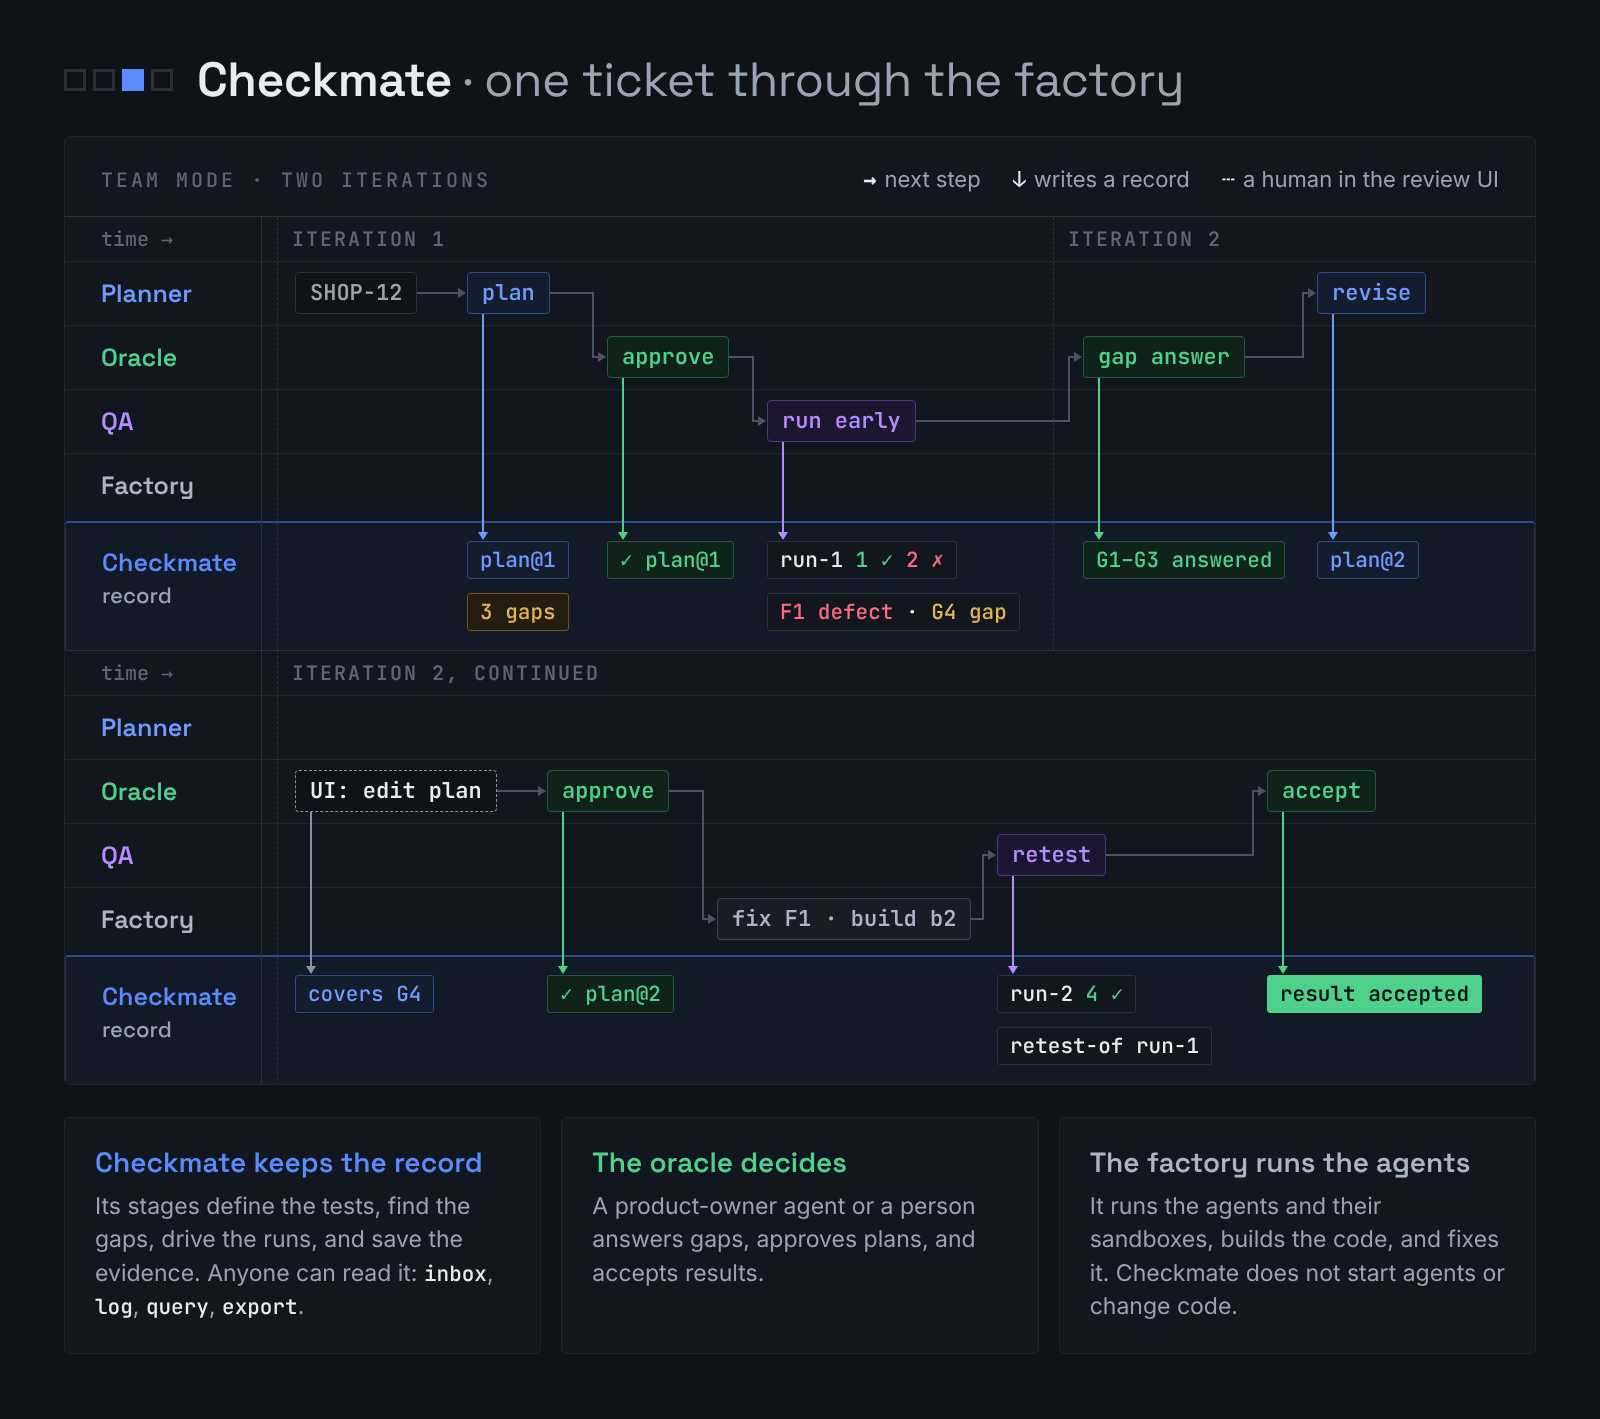
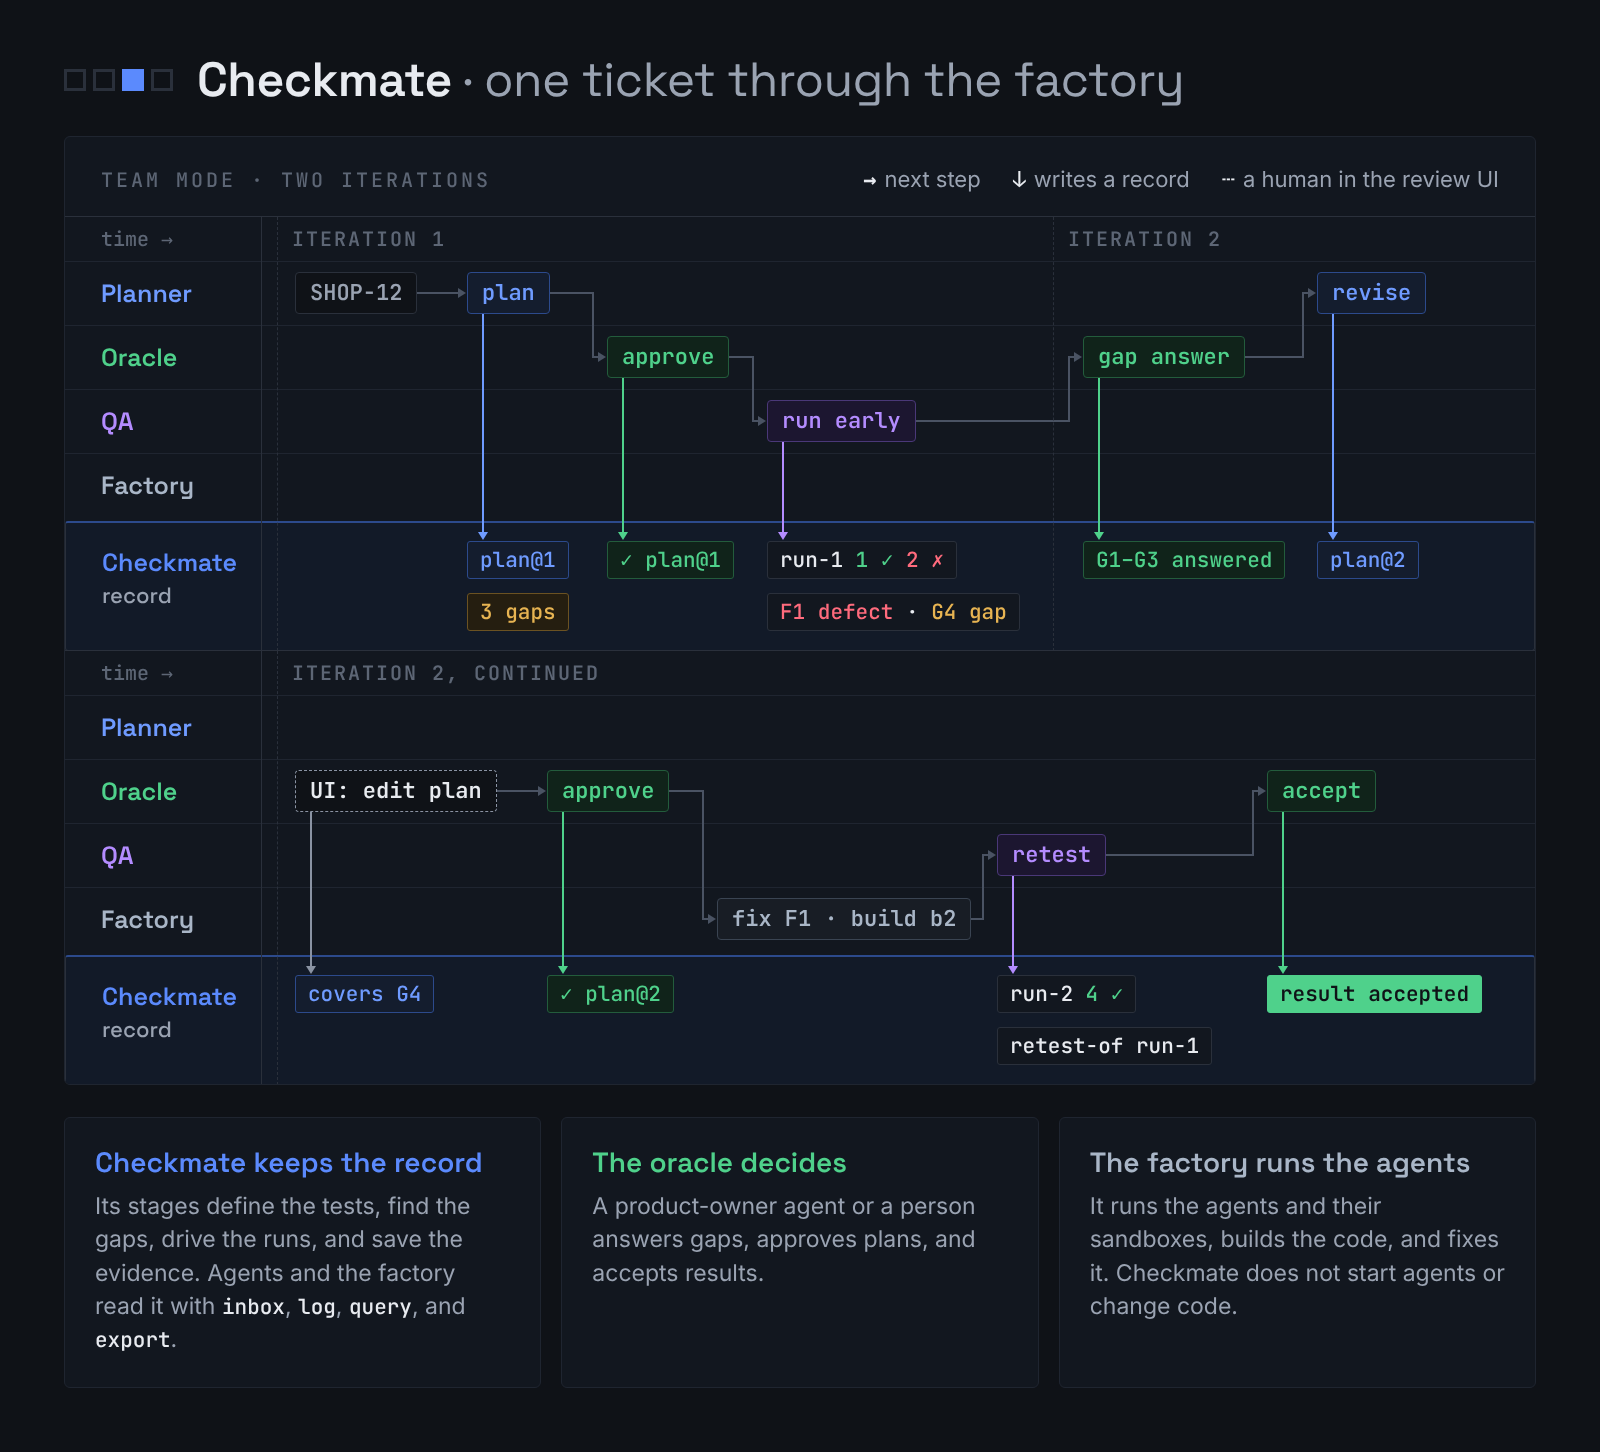
Keep the loop in step with the swimlane during pans
Show the first step of each new view while the swimlane pans, so the lit
station and the centre records never point at a step that is off screen.
Say who reads the record in the infographic.

Claude-Session: https://claude.ai/code/session_01HgM7N6e8wyFWRWjtad7HpP

diff --git a/docs/media/onboarding.html b/docs/media/onboarding.html
@@ -101,8 +101,8 @@
 		<div class="station qa" style="left: 160px; top: 282px">QA retest<div class="lit" data-light="retest" style="background: var(--qa)">QA retest</div></div>
 		<div class="centre">
 			<div class="top"><span class="mark"><i></i><i></i><i></i><i></i></span>checkmate</div>
-			<div class="iter" data-from="0" data-to="10">iteration 1</div>
-			<div class="iter" data-from="10" data-to="25">iteration 2</div>
+			<div class="iter" data-from="0" data-to="10.4">iteration 1</div>
+			<div class="iter" data-from="10.4" data-to="25">iteration 2</div>
 			<div id="groups"></div>
 		</div>
 		<div class="badge">human · checkmate ui · any time<div class="lit" data-light="human">human · checkmate ui · any time</div></div>
@@ -133,15 +133,15 @@
 				<div class="record" data-of="s3" data-row="0" data-t="6.7">run-1 <span class="ok">1 ✓</span> <span class="bad">2 ✗</span></div>
 				<div class="record" data-of="s3" data-row="1" data-t="7.3"><span class="bad">F1 defect</span> · <span class="warn">G4 gap</span></div>
 
-				<div class="step oracle" id="s4" style="left: 664px" data-role="oracle" data-station="oracle" data-t="11.1">gap answer</div>
-				<div class="record decision" data-of="s4" data-row="0" data-t="11.6">G1–G3 answered</div>
+				<div class="step oracle" id="s4" style="left: 664px" data-role="oracle" data-station="oracle" data-t="10.4">gap answer</div>
+				<div class="record decision" data-of="s4" data-row="0" data-t="10.9">G1–G3 answered</div>
 				<div class="step planner" id="s5" style="left: 852px" data-role="planner" data-station="planner" data-t="12.4">revise</div>
 				<div class="record plan" data-of="s5" data-row="0" data-t="12.9">plan@2</div>
 				<div class="step human" id="s6" style="left: 964px" data-role="human" data-station="oracle" data-t="13.7">UI: edit plan</div>
 				<div class="record plan" data-of="s6" data-row="0" data-t="14.2">covers G4</div>
 
-				<div class="step oracle" id="s7" style="left: 1154px" data-role="oracle" data-station="oracle" data-t="16.6">approve</div>
-				<div class="record decision" data-of="s7" data-row="0" data-t="17.1">✓ plan@2</div>
+				<div class="step oracle" id="s7" style="left: 1154px" data-role="oracle" data-station="oracle" data-t="16">approve</div>
+				<div class="record decision" data-of="s7" data-row="0" data-t="16.5">✓ plan@2</div>
 				<div class="step factory" id="s8" style="left: 1284px" data-role="factory" data-station="factory" data-t="17.9">fix F1 · b2</div>
 				<div class="step qa" id="s9" style="left: 1452px" data-role="qa" data-station="retest" data-t="18.9">retest</div>
 				<div class="record" data-of="s9" data-row="0" data-t="19.4">run-2 <span class="ok">4 ✓</span></div>

diff --git a/docs/media/infographic.html b/docs/media/infographic.html
@@ -118,7 +118,7 @@
 	<div class="facts">
 		<div class="card fact">
 			<h2 style="color: var(--blue)">Checkmate keeps the record</h2>
-			<p>Its stages define the tests, find the gaps, drive the runs, and save the evidence. Anyone can read it: <code>inbox</code>, <code>log</code>, <code>query</code>, <code>export</code>.</p>
+			<p>Its stages define the tests, find the gaps, drive the runs, and save the evidence. Agents and the factory read it with <code>inbox</code>, <code>log</code>, <code>query</code>, and <code>export</code>.</p>
 		</div>
 		<div class="card fact">
 			<h2 class="oracle">The oracle decides</h2>
